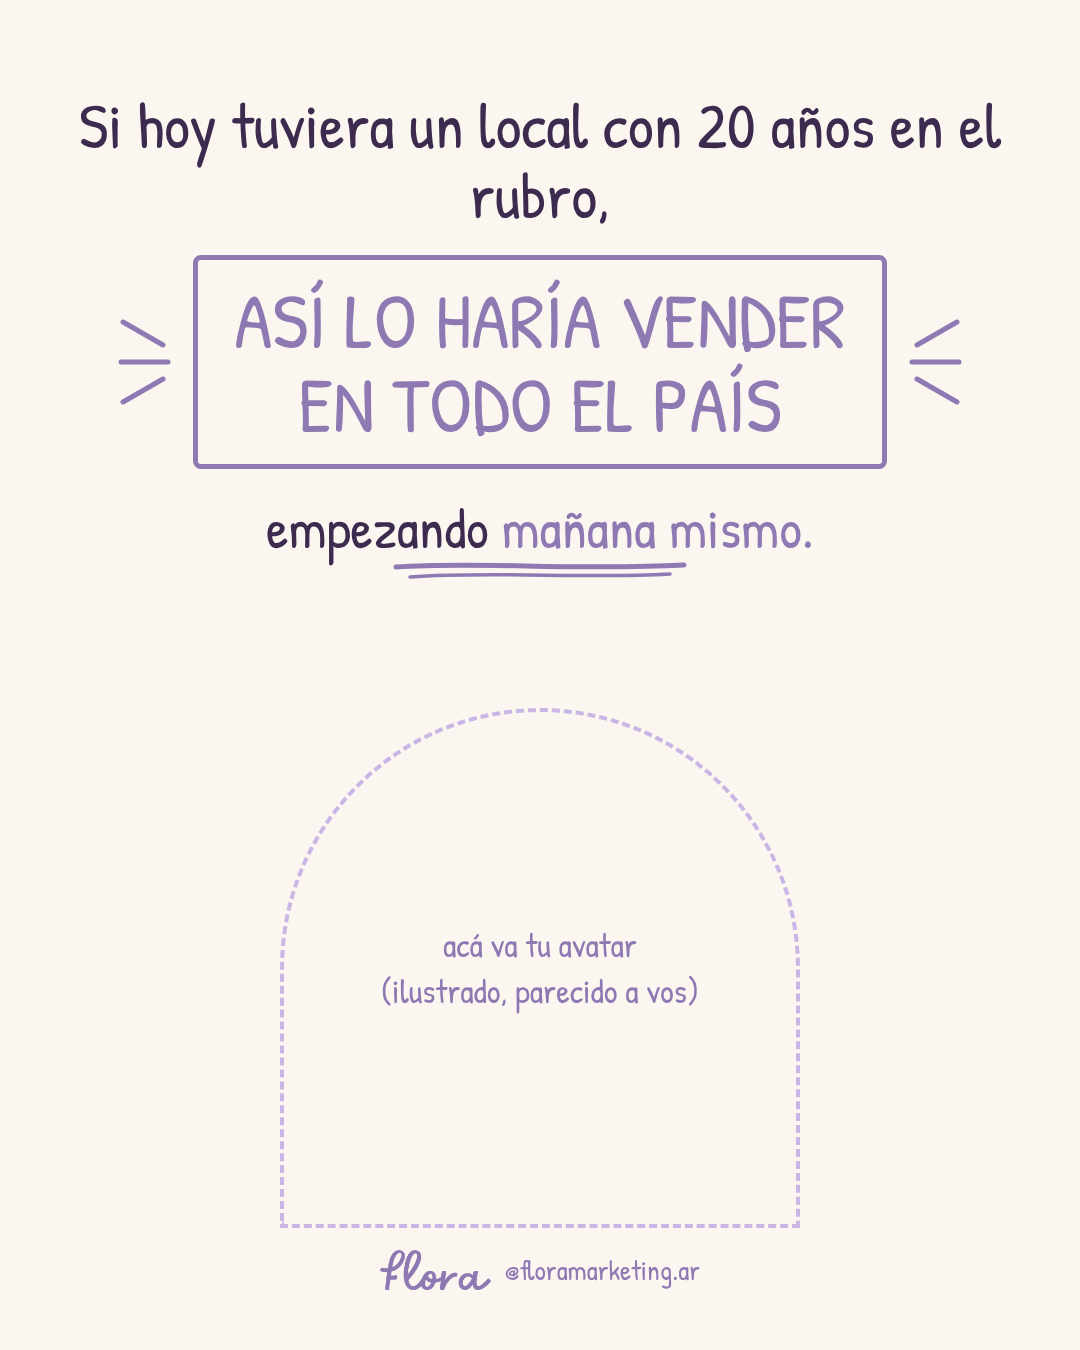
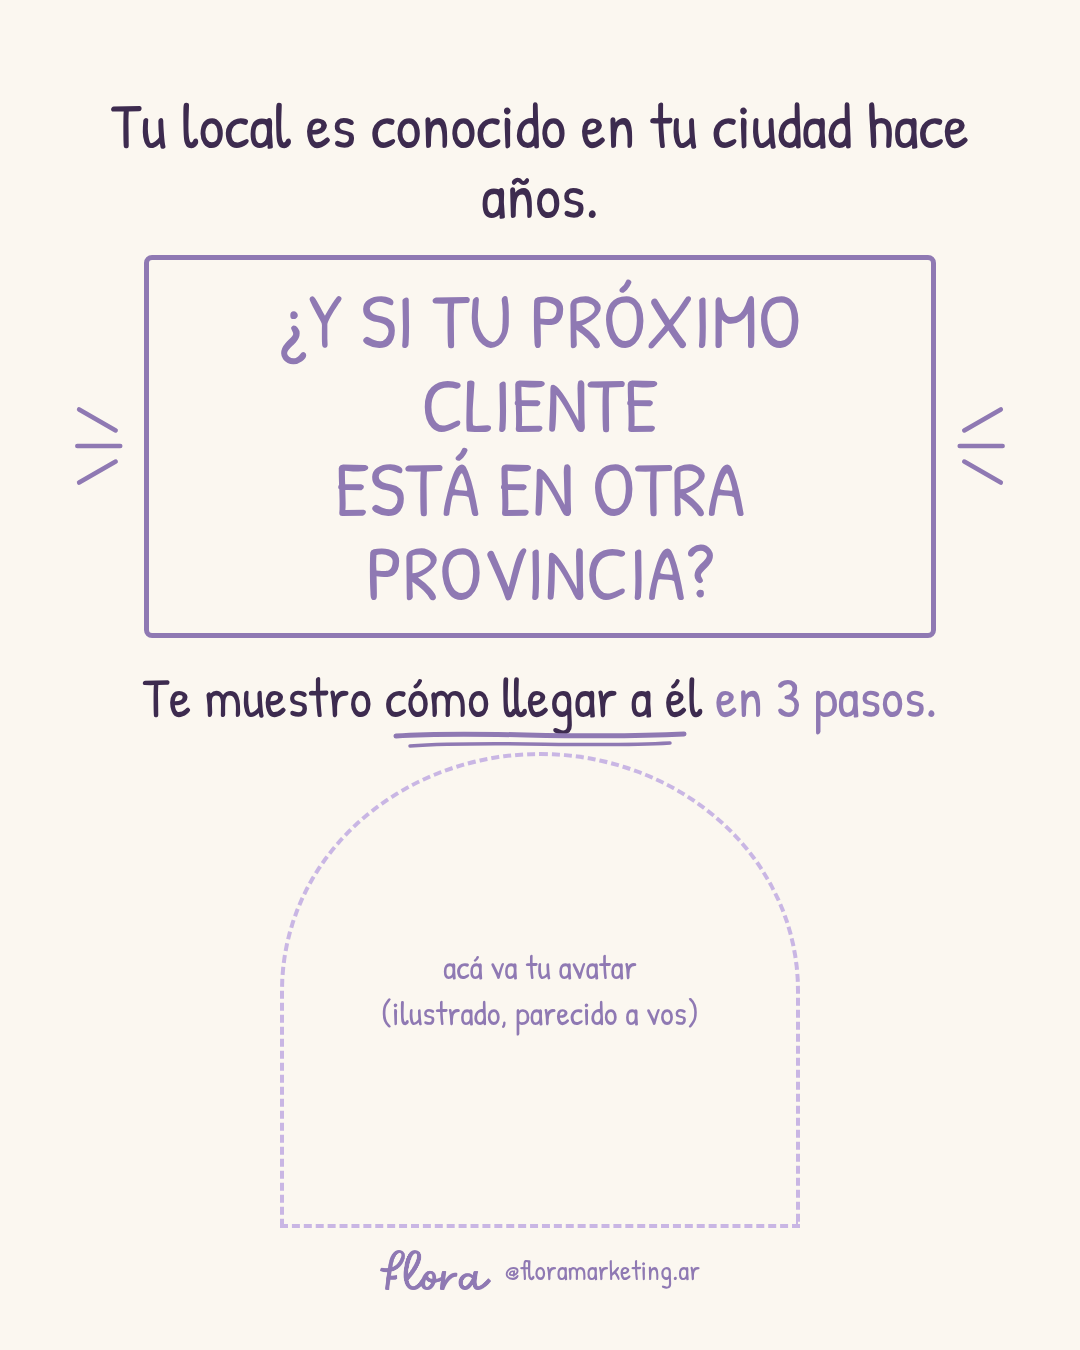
Estilo ilustrado con títulos propios
Claude-Session: https://claude.ai/code/session_011cR66XdfPcXMXiUSVAJZ7n

diff --git a/contenido/estilos/estilo-ilustrado-2.html b/contenido/estilos/estilo-ilustrado-2.html
@@ -5,13 +5,13 @@
 .av{margin-top:auto;width:520px;height:520px;border-radius:50% 50% 0 0;border:4px dashed #C9B6E4;display:grid;place-items:center;color:#8F79B3;font-size:34px}
 .pill{background:#E9DFF5;border-radius:34px;padding:28px 40px;font-size:52px;line-height:1.25}
 .foot{margin-top:22px;font-size:28px;color:#8F79B3;display:flex;gap:14px;align-items:center}.foot img{height:40px}</style></head><body><div class="s" style="text-align:left;align-items:stretch">
-<div style="text-align:center"><div class="row" style="justify-content:center"><svg width="70" height="110" viewBox="0 0 70 110"><g stroke="#8F79B3" stroke-width="5" stroke-linecap="round"><path d="M10 15 L50 38"/><path d="M8 55 L55 55"/><path d="M10 95 L50 72"/></g></svg><div class="pill" style="font-size:72px;padding:12px 40px;color:#8F79B3">Primero,</div><svg style="transform:scaleX(-1)" width="70" height="110" viewBox="0 0 70 110"><g stroke="#8F79B3" stroke-width="5" stroke-linecap="round"><path d="M10 15 L50 38"/><path d="M8 55 L55 55"/><path d="M10 95 L50 72"/></g></svg></div>
-<div style="font-size:72px;margin-top:6px"><span class="hl">NO</span> haría descuentos.<svg width="260" height="26" viewBox="0 0 260 26" style="display:block;margin:-6px auto 0"><path d="M6 10 C 78.0 4, 156.0 14, 254 8" stroke="#8F79B3" stroke-width="5" fill="none" stroke-linecap="round"/><path d="M20 20 C 91.0 14, 169.0 22, 240 17" stroke="#8F79B3" stroke-width="3.5" fill="none" stroke-linecap="round"/></svg></div></div>
+<div style="text-align:center"><div class="row" style="justify-content:center"><svg width="70" height="110" viewBox="0 0 70 110"><g stroke="#8F79B3" stroke-width="5" stroke-linecap="round"><path d="M10 15 L50 38"/><path d="M8 55 L55 55"/><path d="M10 95 L50 72"/></g></svg><div class="pill" style="font-size:66px;padding:12px 40px;color:#8F79B3">Paso 1</div><svg style="transform:scaleX(-1)" width="70" height="110" viewBox="0 0 70 110"><g stroke="#8F79B3" stroke-width="5" stroke-linecap="round"><path d="M10 15 L50 38"/><path d="M8 55 L55 55"/><path d="M10 95 L50 72"/></g></svg></div>
+<div style="font-size:72px;margin-top:6px">Ordená tus <span class="hl">números.</span><svg width="260" height="26" viewBox="0 0 260 26" style="display:block;margin:-6px auto 0"><path d="M6 10 C 78.0 4, 156.0 14, 254 8" stroke="#8F79B3" stroke-width="5" fill="none" stroke-linecap="round"/><path d="M20 20 C 91.0 14, 169.0 22, 240 17" stroke="#8F79B3" stroke-width="3.5" fill="none" stroke-linecap="round"/></svg></div></div>
 <div style="display:flex;gap:30px;margin-top:40px;align-items:flex-start">
 <div style="flex:1.1;display:flex;flex-direction:column;align-items:center;gap:14px">
-<div class="pill" style="text-align:center">Bajás precios para vender más.</div>
+<div class="pill" style="text-align:center">Invertís en anuncios sin saber tu margen.</div>
 <svg width="40" height="70"><path d="M20 5 L20 60 M6 46 L20 62 L34 46" stroke="#8F79B3" stroke-width="5" fill="none" stroke-linecap="round"/></svg>
-<div class="pill" style="text-align:center">Vendés más… pero <span class="hl">ganás menos.</span></div></div>
+<div class="pill" style="text-align:center">Vendés… pero <span class="hl">no sabés si ganás.</span></div></div>
 <div style="flex:1;height:420px;border:4px dashed #C9B6E4;border-radius:30px;display:grid;place-items:center;color:#8F79B3;font-size:32px;text-align:center">avatar<br>(pensativa)</div></div>
-<div class="pill" style="text-align:center;margin-top:40px;font-size:56px">Primero, tus números.<br><span class="hl" style="font-size:66px">Después, la publicidad.</span><svg width="420" height="26" viewBox="0 0 420 26" style="display:block;margin:-6px auto 0"><path d="M6 10 C 126.0 4, 252.0 14, 414 8" stroke="#8F79B3" stroke-width="5" fill="none" stroke-linecap="round"/><path d="M20 20 C 147.0 14, 273.0 22, 400 17" stroke="#8F79B3" stroke-width="3.5" fill="none" stroke-linecap="round"/></svg></div>
+<div class="pill" style="text-align:center;margin-top:40px;font-size:56px">Con tu margen sabés<br><span class="hl" style="font-size:66px">cuánto podés invertir.</span><svg width="420" height="26" viewBox="0 0 420 26" style="display:block;margin:-6px auto 0"><path d="M6 10 C 126.0 4, 252.0 14, 414 8" stroke="#8F79B3" stroke-width="5" fill="none" stroke-linecap="round"/><path d="M20 20 C 147.0 14, 273.0 22, 400 17" stroke="#8F79B3" stroke-width="3.5" fill="none" stroke-linecap="round"/></svg></div>
 <div class="foot" style="justify-content:center;margin-top:auto"><img src="flora-palabra-lila.png"> @floramarketing.ar</div></div></body></html>

diff --git a/contenido/estilos/estilo-ilustrado-1.html b/contenido/estilos/estilo-ilustrado-1.html
@@ -4,8 +4,8 @@
 .row{display:flex;align-items:center;gap:10px}.t2{font-size:56px;line-height:1.25}.hl{color:#8F79B3}
 .av{margin-top:auto;width:520px;height:520px;border-radius:50% 50% 0 0;border:4px dashed #C9B6E4;display:grid;place-items:center;color:#8F79B3;font-size:34px}
 .pill{background:#E9DFF5;border-radius:34px;padding:28px 40px;font-size:52px;line-height:1.25}
-.foot{margin-top:22px;font-size:28px;color:#8F79B3;display:flex;gap:14px;align-items:center}.foot img{height:40px}</style></head><body><div class="s"><div class="t1">Si hoy tuviera un local con 20 años en el rubro,</div>
-<div class="row"><svg width="70" height="110" viewBox="0 0 70 110"><g stroke="#8F79B3" stroke-width="5" stroke-linecap="round"><path d="M10 15 L50 38"/><path d="M8 55 L55 55"/><path d="M10 95 L50 72"/></g></svg><div class="box">ASÍ LO HARÍA VENDER<br>EN TODO EL PAÍS</div><svg style="transform:scaleX(-1)" width="70" height="110" viewBox="0 0 70 110"><g stroke="#8F79B3" stroke-width="5" stroke-linecap="round"><path d="M10 15 L50 38"/><path d="M8 55 L55 55"/><path d="M10 95 L50 72"/></g></svg></div>
-<div class="t2">empezando <span class="hl">mañana mismo.</span><svg width="300" height="26" viewBox="0 0 300 26" style="display:block;margin:-6px auto 0"><path d="M6 10 C 90.0 4, 180.0 14, 294 8" stroke="#8F79B3" stroke-width="5" fill="none" stroke-linecap="round"/><path d="M20 20 C 105.0 14, 195.0 22, 280 17" stroke="#8F79B3" stroke-width="3.5" fill="none" stroke-linecap="round"/></svg></div>
+.foot{margin-top:22px;font-size:28px;color:#8F79B3;display:flex;gap:14px;align-items:center}.foot img{height:40px}</style></head><body><div class="s"><div class="t1">Tu local es conocido en tu ciudad hace años.</div>
+<div class="row"><svg width="70" height="110" viewBox="0 0 70 110"><g stroke="#8F79B3" stroke-width="5" stroke-linecap="round"><path d="M10 15 L50 38"/><path d="M8 55 L55 55"/><path d="M10 95 L50 72"/></g></svg><div class="box">¿Y SI TU PRÓXIMO CLIENTE<br>ESTÁ EN OTRA PROVINCIA?</div><svg style="transform:scaleX(-1)" width="70" height="110" viewBox="0 0 70 110"><g stroke="#8F79B3" stroke-width="5" stroke-linecap="round"><path d="M10 15 L50 38"/><path d="M8 55 L55 55"/><path d="M10 95 L50 72"/></g></svg></div>
+<div class="t2">Te muestro cómo llegar a él <span class="hl">en 3 pasos.</span><svg width="300" height="26" viewBox="0 0 300 26" style="display:block;margin:-6px auto 0"><path d="M6 10 C 90.0 4, 180.0 14, 294 8" stroke="#8F79B3" stroke-width="5" fill="none" stroke-linecap="round"/><path d="M20 20 C 105.0 14, 195.0 22, 280 17" stroke="#8F79B3" stroke-width="3.5" fill="none" stroke-linecap="round"/></svg></div>
 <div class="av">acá va tu avatar<br>(ilustrado, parecido a vos)</div>
 <div class="foot"><img src="flora-palabra-lila.png"> @floramarketing.ar</div></div></body></html>

diff --git a/contenido/estilos/estilos.py b/contenido/estilos/estilos.py
@@ -11,21 +11,21 @@ A_css=f'''*{{margin:0;padding:0;box-sizing:border-box}}body{{width:1080px;height
 .av{{margin-top:auto;width:520px;height:520px;border-radius:50% 50% 0 0;border:4px dashed {LI};display:grid;place-items:center;color:{L};font-size:34px}}
 .pill{{background:{SOFT};border-radius:34px;padding:28px 40px;font-size:52px;line-height:1.25}}
 .foot{{margin-top:22px;font-size:28px;color:{L};display:flex;gap:14px;align-items:center}}.foot img{{height:40px}}'''
-A1=f'''<div class="s"><div class="t1">Si hoy tuviera un local con 20 años en el rubro,</div>
-<div class="row">{spark_l}<div class="box">ASÍ LO HARÍA VENDER<br>EN TODO EL PAÍS</div>{spark_r}</div>
-<div class="t2">empezando <span class="hl">mañana mismo.</span>{rough_underline(300)}</div>
+A1=f'''<div class="s"><div class="t1">Tu local es conocido en tu ciudad hace años.</div>
+<div class="row">{spark_l}<div class="box">¿Y SI TU PRÓXIMO CLIENTE<br>ESTÁ EN OTRA PROVINCIA?</div>{spark_r}</div>
+<div class="t2">Te muestro cómo llegar a él <span class="hl">en 3 pasos.</span>{rough_underline(300)}</div>
 <div class="av">acá va tu avatar<br>(ilustrado, parecido a vos)</div>
 <div class="foot"><img src="flora-palabra-lila.png"> @floramarketing.ar</div></div>'''
 A2=f'''<div class="s" style="text-align:left;align-items:stretch">
-<div style="text-align:center"><div class="row" style="justify-content:center">{spark_l}<div class="pill" style="font-size:72px;padding:12px 40px;color:{L}">Primero,</div>{spark_r}</div>
-<div style="font-size:72px;margin-top:6px"><span class="hl">NO</span> haría descuentos.{rough_underline(260)}</div></div>
+<div style="text-align:center"><div class="row" style="justify-content:center">{spark_l}<div class="pill" style="font-size:66px;padding:12px 40px;color:{L}">Paso 1</div>{spark_r}</div>
+<div style="font-size:72px;margin-top:6px">Ordená tus <span class="hl">números.</span>{rough_underline(260)}</div></div>
 <div style="display:flex;gap:30px;margin-top:40px;align-items:flex-start">
 <div style="flex:1.1;display:flex;flex-direction:column;align-items:center;gap:14px">
-<div class="pill" style="text-align:center">Bajás precios para vender más.</div>
+<div class="pill" style="text-align:center">Invertís en anuncios sin saber tu margen.</div>
 <svg width="40" height="70"><path d="M20 5 L20 60 M6 46 L20 62 L34 46" stroke="{L}" stroke-width="5" fill="none" stroke-linecap="round"/></svg>
-<div class="pill" style="text-align:center">Vendés más… pero <span class="hl">ganás menos.</span></div></div>
+<div class="pill" style="text-align:center">Vendés… pero <span class="hl">no sabés si ganás.</span></div></div>
 <div style="flex:1;height:420px;border:4px dashed {LI};border-radius:30px;display:grid;place-items:center;color:{L};font-size:32px;text-align:center">avatar<br>(pensativa)</div></div>
-<div class="pill" style="text-align:center;margin-top:40px;font-size:56px">Primero, tus números.<br><span class="hl" style="font-size:66px">Después, la publicidad.</span>{rough_underline(420)}</div>
+<div class="pill" style="text-align:center;margin-top:40px;font-size:56px">Con tu margen sabés<br><span class="hl" style="font-size:66px">cuánto podés invertir.</span>{rough_underline(420)}</div>
 <div class="foot" style="justify-content:center;margin-top:auto"><img src="flora-palabra-lila.png"> @floramarketing.ar</div></div>'''
 B_css=f'''*{{margin:0;padding:0;box-sizing:border-box}}body{{width:1080px;height:1350px;overflow:hidden;background:url(papel.png);font-family:'Caveat';color:{T}}}
 .s{{width:1080px;height:1350px;padding:120px 90px 70px;display:flex;flex-direction:column}}
